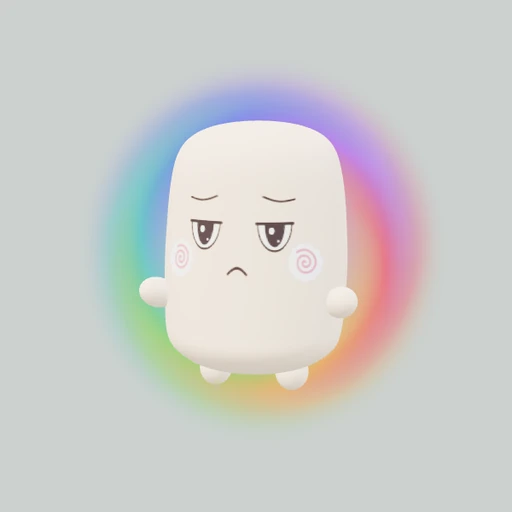
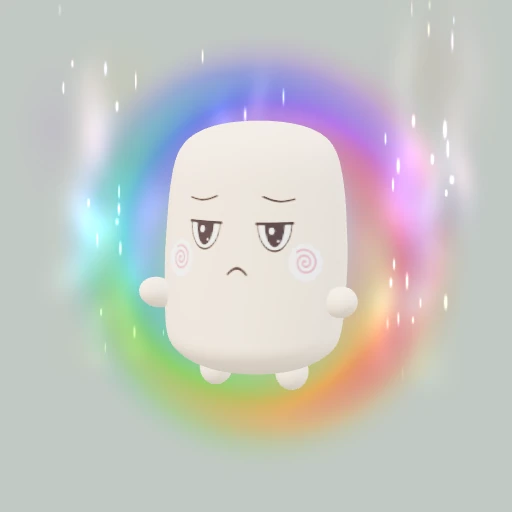
Enrich acquired aura visuals and equipment portraits

Changed region(s): [[0.125, 0.0938, 0.9062, 0.9062], [0.875, 0.0625, 0.9062, 0.0938], [0.1875, 0.125, 0.2188, 0.1562]]

diff --git a/site/game/battle-view.js b/site/game/battle-view.js
@@ -1,4 +1,5 @@
 import {AURA_STYLES as auraStyles} from './aura-styles.js';
+import {CreatureAuraEffects} from './creature-aura-effects.js';
 import {TECHNIQUES} from './technique-rules.js';
 import {AttackEffects} from './attack-effects.js';
 import {SuperAwakeningStage} from './super-awakening-stage.js';
@@ -473,6 +474,9 @@ export class BattleView{
   const appearance=record.appearance;
   if(role==='player'){
    this.applyAuraColor(record,state.auraId);
+   const creatureAuraActive=auraActive&&record.auraId!=='okoteiyu';
+   if(creatureAuraActive&&!record.creatureAura){record.creatureAura=new CreatureAuraEffects(record.height);record.anchor.add(record.creatureAura.root);}
+   record.creatureAura?.sample(this.time,creatureAuraActive,auraStyles[record.auraId]||auraStyles.okoteiyu,{superActive});
    const superConfiguration=superActive?(this.snapshot?.super?.configuration??this.snapshot?.techniques?.superDetails?.configuration??this.snapshot?.techniques?.superConfiguration??'none'):'none';
    this.applySuperAuraColor(record,superConfiguration);
    for(const node of appearance.whiteAuraNodes||[])node.visible=auraActive;
@@ -481,7 +485,7 @@ export class BattleView{
    if(superActive&&!record.risingAura){record.risingAura=new SuperRisingAura(record.height);record.anchor.add(record.risingAura.root);}
    const superElapsed=current?.technique==='super_awaken'?attackElapsed:Math.max(0,this.time-(Number.isFinite(record.superAt)?record.superAt:0));
    record.risingAura?.sample(superElapsed,superActive,superConfiguration);
-   if(record.glow){const style=auraStyles[record.auraId]||auraStyles.okoteiyu,trueGlow=superActive&&superConfiguration==='true'&&(!auraActive||record.auraId==='okoteiyu');record.glow.visible=auraActive||superActive;const map=trueGlow?this.paletteAuraTexture('super:true',TRUE_SUPER_AURA_COLORS):style.palette?this.paletteAuraTexture(record.auraId,style.palette):record.glow.userData.baseMap||record.glow.material.map;if(record.glow.material.map!==map){record.glow.material.map=map;record.glow.material.needsUpdate=true;}record.glow.material.color.set(trueGlow||style.palette?0xffffff:superActive&&(!auraActive||record.auraId==='okoteiyu')?0xd5ef59:record.auraColor);record.glow.material.opacity=superActive?.95:style.emphasis?.95:style.palette?.72:.52;record.glow.scale.set(record.height*(superActive?2.05:style.emphasis?1.85:1.48),record.height*(superActive?2.12:style.emphasis?1.95:1.55),1);}
+   if(record.glow){const style=auraStyles[record.auraId]||auraStyles.okoteiyu,trueGlow=superActive&&superConfiguration==='true'&&(!auraActive||record.auraId==='okoteiyu');record.glow.visible=auraActive||superActive;const map=trueGlow?this.paletteAuraTexture('super:true',TRUE_SUPER_AURA_COLORS):style.palette?this.paletteAuraTexture(record.auraId,style.palette):record.glow.userData.baseMap||record.glow.material.map;if(record.glow.material.map!==map){record.glow.material.map=map;record.glow.material.needsUpdate=true;}record.glow.material.color.set(trueGlow||style.palette?0xffffff:superActive&&(!auraActive||record.auraId==='okoteiyu')?0xd5ef59:record.auraColor);record.glow.material.opacity=superActive?.95:style.emphasis?.95:style.palette?.82:creatureAuraActive?.70:.52;record.glow.scale.set(record.height*(superActive?2.05:style.emphasis?1.85:creatureAuraActive?1.68:1.48),record.height*(superActive?2.12:style.emphasis?1.95:creatureAuraActive?1.78:1.55),1);}
   }
  }
  updatePose(){
@@ -613,7 +617,7 @@ export class BattleView{
   if(renderer){try{renderer.dispose();}catch{}try{renderer.forceContextLoss?.();}catch{}}
  }
  cancelPendingLoad(){if(!this.loading)return false;this.fieldGeneration=(this.fieldGeneration||0)+1;this.loading=false;this.ready=false;this.timeRequest=null;return true;}
- getDiagnostics(){return {lockOn:this.getLockOnTarget(),targetCandidateCount:this.getBattleTargets().length,support:this.supportView?.getDiagnostics()||null,supportCamera:this.supportFraming||null,field:this.field?.id||null,trainingEntranceFixed:this.field?.region==='training'&&this.stageOptions?.presentation==='training-hall',trainingFrame:this.field?.region==='training'?this.trainingFrame||null:null,trainingPlacements:this.field?.region==='training'?this.trainingPlacements||{}:null,camera:{position:this.camera.position.toArray(),target:this.cameraAim?.toArray()||null,fov:this.camera.fov,near:this.camera.near,far:this.camera.far,zoom:this.camera.zoom,quaternion:this.camera.quaternion.toArray(),view:this.camera.view?{...this.camera.view}:null,orbit:{...this.battleOrbit,defaultYaw:DEFAULT_BATTLE_YAW,defaultPitch:DEFAULT_BATTLE_PITCH,pivot:this.cameraAim?.toArray()||null,radius:this.battleCameraFrame?.radius||null,appliedRadius:this.cameraAim?this.camera.position.distanceTo(this.cameraAim):null,pitchMin:MIN_BATTLE_PITCH,pitchMax:MAX_BATTLE_PITCH},frame:this.battleCameraFrame?JSON.parse(JSON.stringify(this.battleCameraFrame)):null},fieldScale:this.fieldScene?.scale.toArray()||null,fieldPosition:this.fieldScene?.position.toArray()||null,awakeningCutin:this.cutin?{...this.cutin}:null,awakeningPresentation:this.awakeningState?{...this.awakeningState}:null,fatigue:this.getFatigueDiagnostics(),hitParticles:this.getHitParticleDiagnostics(),ready:this.ready,loading:this.loading,active:this.active,error:this.lastError,contextLost:this.contextLost,time:this.time,renderFrames:this.renderFrames,size:{width:this.width||0,height:this.height||0},actors:Object.fromEntries(Object.entries(this.actors).map(([role,actor])=>[role,{id:actor.id,height:actor.height,position:actor.anchor.position.toArray(),facingY:actor.facing.rotation.y,currentClip:actor.currentClip,shield:actor.shield?{id:this.snapshot?.player?.equipment?.defense,visible:actor.shield.visible,position:actor.shield.position.toArray(),animations:0}:null,auraId:actor.auraId||null,auraColor:actor.auraColor===undefined?null:'#'+actor.auraColor.toString(16).padStart(6,'0'),auraMaterialCount:actor.auraMaterials?.length||0,hitOffset:actor.hitRoot.position.toArray(),attackOffset:actor.attackRoot.position.toArray(),fixedGroundWorld:actor.fixedGround?.getWorldPosition(new THREE.Vector3()).toArray()||null,meshCount:(()=>{let count=0;actor.model.traverse(node=>{if(node.isMesh)count++;});return count;})()}]))};}
+ getDiagnostics(){return {lockOn:this.getLockOnTarget(),targetCandidateCount:this.getBattleTargets().length,support:this.supportView?.getDiagnostics()||null,supportCamera:this.supportFraming||null,field:this.field?.id||null,trainingEntranceFixed:this.field?.region==='training'&&this.stageOptions?.presentation==='training-hall',trainingFrame:this.field?.region==='training'?this.trainingFrame||null:null,trainingPlacements:this.field?.region==='training'?this.trainingPlacements||{}:null,camera:{position:this.camera.position.toArray(),target:this.cameraAim?.toArray()||null,fov:this.camera.fov,near:this.camera.near,far:this.camera.far,zoom:this.camera.zoom,quaternion:this.camera.quaternion.toArray(),view:this.camera.view?{...this.camera.view}:null,orbit:{...this.battleOrbit,defaultYaw:DEFAULT_BATTLE_YAW,defaultPitch:DEFAULT_BATTLE_PITCH,pivot:this.cameraAim?.toArray()||null,radius:this.battleCameraFrame?.radius||null,appliedRadius:this.cameraAim?this.camera.position.distanceTo(this.cameraAim):null,pitchMin:MIN_BATTLE_PITCH,pitchMax:MAX_BATTLE_PITCH},frame:this.battleCameraFrame?JSON.parse(JSON.stringify(this.battleCameraFrame)):null},fieldScale:this.fieldScene?.scale.toArray()||null,fieldPosition:this.fieldScene?.position.toArray()||null,awakeningCutin:this.cutin?{...this.cutin}:null,awakeningPresentation:this.awakeningState?{...this.awakeningState}:null,fatigue:this.getFatigueDiagnostics(),hitParticles:this.getHitParticleDiagnostics(),ready:this.ready,loading:this.loading,active:this.active,error:this.lastError,contextLost:this.contextLost,time:this.time,renderFrames:this.renderFrames,size:{width:this.width||0,height:this.height||0},actors:Object.fromEntries(Object.entries(this.actors).map(([role,actor])=>[role,{id:actor.id,height:actor.height,position:actor.anchor.position.toArray(),facingY:actor.facing.rotation.y,currentClip:actor.currentClip,shield:actor.shield?{id:this.snapshot?.player?.equipment?.defense,visible:actor.shield.visible,position:actor.shield.position.toArray(),animations:0}:null,auraId:actor.auraId||null,auraColor:actor.auraColor===undefined?null:'#'+actor.auraColor.toString(16).padStart(6,'0'),auraMaterialCount:actor.auraMaterials?.length||0,creatureAura:actor.creatureAura?.getDiagnostics()||null,hitOffset:actor.hitRoot.position.toArray(),attackOffset:actor.attackRoot.position.toArray(),fixedGroundWorld:actor.fixedGround?.getWorldPosition(new THREE.Vector3()).toArray()||null,meshCount:(()=>{let count=0;actor.model.traverse(node=>{if(node.isMesh)count++;});return count;})()}]))};}
  disposeObject(object){const geometries=new Set(),materials=new Set(),textures=new Set();object?.traverse(node=>{if(node.isInstancedMesh&&node.userData.campInstanced)node.dispose();if(node.geometry)geometries.add(node.geometry);for(const material of Array.isArray(node.material)?node.material:node.material?[node.material]:[]){materials.add(material);for(const value of Object.values(material))if(value?.isTexture)textures.add(value);}});for(const value of geometries)value.dispose();for(const value of materials)value.dispose();for(const value of textures)if(value!==this.shadowTexture)value.dispose();}
  destroy(){if(this.destroyed)return;this.destroyed=true;this.active=false;this.supportView?.dispose();const resources=new THREE.Group();for(const record of this.actorCache.values()){record.hitParticles?.dispose();record.mixer.stopAllAction();resources.add(record.anchor);}for(const template of this.templateCache.values())resources.add(template.scene);this.disposeObject(resources);this.awakeningStage?.dispose();this.clearStage();this.shadowTexture?.dispose();for(const texture of this.auraTextureCache?.values()||[])texture.dispose();this.auraTextureCache?.clear();this.actorCache.clear();this.actorPromises.clear();this.templateCache.clear();this.templatePromises.clear();this.releaseRenderer();}
 }

diff --git a/site/game/creature-aura-effects.js b/site/game/creature-aura-effects.js
@@ -1,0 +1,80 @@
+import * as THREE from './vendor/three/three.module.js';
+
+export const CREATURE_AURA_COUNTS=Object.freeze({mist:24,ribbons:24,sparks:48});
+const MAX_PALETTE=8;
+const positiveModulo=(n,m)=>((n%m)+m)%m;
+
+/** Soft acquired-aura presentation. Three instanced batches share one clock;
+ * all color and motion is deterministic and has no effect on game state. */
+export class CreatureAuraEffects{
+ constructor(height){
+  this.height=height;this.root=new THREE.Group();this.root.name='Battle.CreatureAura';this.root.visible=false;
+  this.uniforms={time:{value:0},height:{value:height},strength:{value:1},dark:{value:0},paletteCount:{value:1},palette:{value:Array.from({length:MAX_PALETTE},()=>new THREE.Color(0xffffff))}};
+  this.mist=this.makeLayer(CREATURE_AURA_COUNTS.mist,0);this.ribbons=this.makeLayer(CREATURE_AURA_COUNTS.ribbons,1);this.sparks=this.makeLayer(CREATURE_AURA_COUNTS.sparks,2);this.root.add(this.mist,this.ribbons,this.sparks);this.style=null;this.active=false;
+ }
+ makeLayer(count,kind){
+  const plane=new THREE.PlaneGeometry(1,1),geometry=new THREE.InstancedBufferGeometry();geometry.index=plane.index;geometry.setAttribute('position',plane.attributes.position);geometry.setAttribute('uv',plane.attributes.uv);geometry.instanceCount=count;
+  const phase=new Float32Array(count),side=new Float32Array(count),depth=new Float32Array(count),speed=new Float32Array(count),width=new Float32Array(count),length=new Float32Array(count);
+  for(let i=0;i<count;i++){
+   phase[i]=positiveModulo(i*.61803398875+kind*.271,1);speed[i]=.22+positiveModulo(i*.317+kind*.113,1)*.25;
+   // Wide side plumes and a few rear plumes keep the eyes, cheeks and mouth clear.
+   side[i]=i%6===0?Math.sin(i*1.9)*.22:(i%2?1:-1)*(.43+positiveModulo(i*.239,1)*.25);
+   depth[i]=i%6===0?-.27:-.04-Math.sin(i*2.1)*.09;
+   width[i]=kind===2?.014+positiveModulo(i*.413,1)*.014:kind===1?.19+positiveModulo(i*.347,1)*.14:.35+positiveModulo(i*.293,1)*.20;
+   length[i]=kind===2?.036+positiveModulo(i*.271,1)*.06:kind===1?.49+positiveModulo(i*.173,1)*.32:.48+positiveModulo(i*.197,1)*.33;
+  }
+  for(const [name,array]of [['aPhase',phase],['aSide',side],['aDepth',depth],['aSpeed',speed],['aWidth',width],['aLength',length]])geometry.setAttribute(name,new THREE.InstancedBufferAttribute(array,1));
+  const material=new THREE.ShaderMaterial({uniforms:{...this.uniforms,kind:{value:kind}},transparent:true,depthWrite:false,blending:kind===0?THREE.NormalBlending:THREE.AdditiveBlending,toneMapped:false,
+   vertexShader:`
+    uniform float time;uniform float height;uniform float kind;
+    attribute float aPhase;attribute float aSide;attribute float aDepth;attribute float aSpeed;attribute float aWidth;attribute float aLength;
+    varying vec2 vUv;varying float vLife;varying float vSeed;varying float vHeight;
+    void main(){
+     float age=fract(time*aSpeed+aPhase),spark=step(1.5,kind);
+     float sway=sin(time*1.4+aPhase*19.+age*3.)*.055;
+     vec3 center=vec3(aSide*(1.+age*.16)+sway,.04+age*(1.19+spark*.25),aDepth)*height;
+     vec4 view=modelViewMatrix*vec4(center,1.);
+     float width=aWidth*(.78+sin(age*3.14159265)*.28)*height;
+     float length=aLength*(.78+age*.33)*height;
+     view.xy+=position.xy*vec2(width,length);
+     gl_Position=projectionMatrix*view;vUv=uv;vLife=pow(max(0.,sin(age*3.14159265)),.85);vSeed=aPhase;vHeight=center.y+position.y*length;
+    }`,
+   fragmentShader:`
+    uniform float time;uniform float height;uniform float strength;uniform float dark;uniform float kind;uniform int paletteCount;uniform vec3 palette[8];
+    varying vec2 vUv;varying float vLife;varying float vSeed;varying float vHeight;
+    void main(){
+     float spark=step(1.5,kind),ribbon=step(.5,kind)*(1.-spark);
+     float bend=sin(vUv.y*6.-time*2.4+vSeed*21.)*.10*ribbon;
+     vec2 p=vec2((vUv.x-.5+bend)*2.,(vUv.y-.5)*2.);
+     float shape=exp(-p.x*p.x*mix(4.5,6.5,spark))*pow(max(0.,sin(vUv.y*3.14159265)),1.9);
+     float edgeFade=smoothstep(-height*.05,height*.08,vHeight);
+     float grain=.82+.18*sin(vUv.y*13.-time*3.2+vSeed*29.);
+     float alpha=shape*vLife*edgeFade*strength*mix(.23,mix(.19,.72,spark),step(.5,kind))*mix(grain,1.,spark);
+     int index=int(floor(vSeed*float(paletteCount)));vec3 base=palette[index];
+     vec3 bright=mix(base,vec3(1.),.13+spark*.13);
+     // Black auras retain a dark smoke body, with a restrained slate rim so
+     // their movement stays visible in a dark field without becoming white.
+     float channel=max(base.r,max(base.g,base.b));
+     vec3 rim=channel>.0008?base*(max(.18,channel)/channel):vec3(.13,.16,.23);
+     vec3 color=mix(bright,rim,dark);
+     if(kind<.5){color=mix(base*.75,base,dark);alpha*=mix(.77,1.55,dark);}
+     else if(kind<1.5){color=mix(color,mix(base,vec3(1.),.23),exp(-p.x*p.x*18.)*.22*(1.-dark));}
+     gl_FragColor=vec4(color,alpha);
+     #include <colorspace_fragment>
+    }`});
+  const mesh=new THREE.Mesh(geometry,material);mesh.name=kind===0?'CreatureAura.SoftMist':kind===1?'CreatureAura.RisingGlow':'CreatureAura.DriftingSparks';mesh.frustumCulled=false;plane.dispose();return mesh;
+ }
+ configure(style){
+  if(this.style===style)return;this.style=style;
+  const colors=(style.palette?.length?style.palette:[style.color]).slice(0,MAX_PALETTE);for(let i=0;i<MAX_PALETTE;i++)this.uniforms.palette.value[i].set(colors[i%colors.length]);
+  this.uniforms.paletteCount.value=colors.length;
+  this.uniforms.dark.value=Math.max(...colors.map(color=>{const c=new THREE.Color(color);return Math.max(c.r,c.g,c.b);} ))<.12?1:0;
+ }
+ sample(elapsed,active,style,{superActive=false}={}){
+  this.active=Boolean(active);this.root.visible=this.active;if(!this.active)return;
+  this.configure(style);this.uniforms.time.value=Math.max(0,Number(elapsed)||0);
+  this.uniforms.strength.value=(style.emphasis?1.12:1)*(superActive?.62:1);
+ }
+ getDiagnostics(){return {active:this.active,time:this.uniforms.time.value,strength:this.uniforms.strength.value,dark:this.uniforms.dark.value,palette:this.uniforms.palette.value.slice(0,this.uniforms.paletteCount.value).map(c=>'#'+c.getHexString()),counts:{...CREATURE_AURA_COUNTS},drawCalls:3};}
+ dispose(){for(const mesh of[this.mist,this.ribbons,this.sparks]){mesh.geometry.dispose();mesh.material.dispose();}this.root.removeFromParent();}
+}
